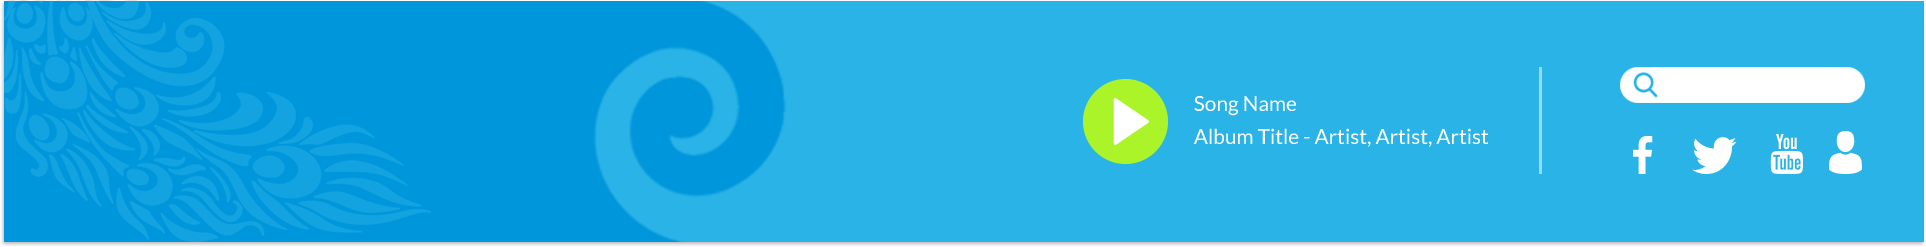
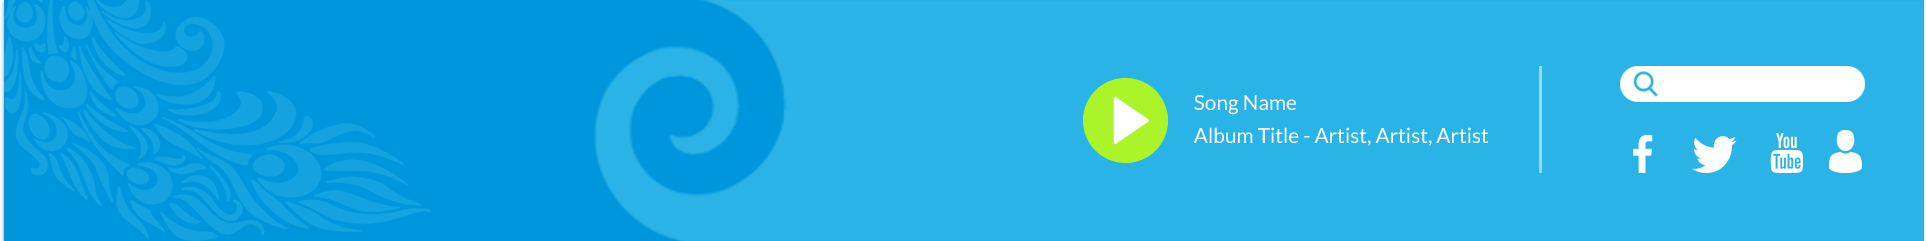
menu updated on scroll

diff --git a/css/style.css b/css/style.css
@@ -136,7 +136,9 @@ body.fixed .logoad-unit .logo {
     z-index: 998;
     width: 100%;
     background-image: initial;
-    background: #12a3e0;
+    background: #1095cd url(../image/menubar-hover.png) no-repeat;
+    background-size: contain;
+    background-position: center right;
 }
 .burgermenu-unit{
 	width: 40px;
